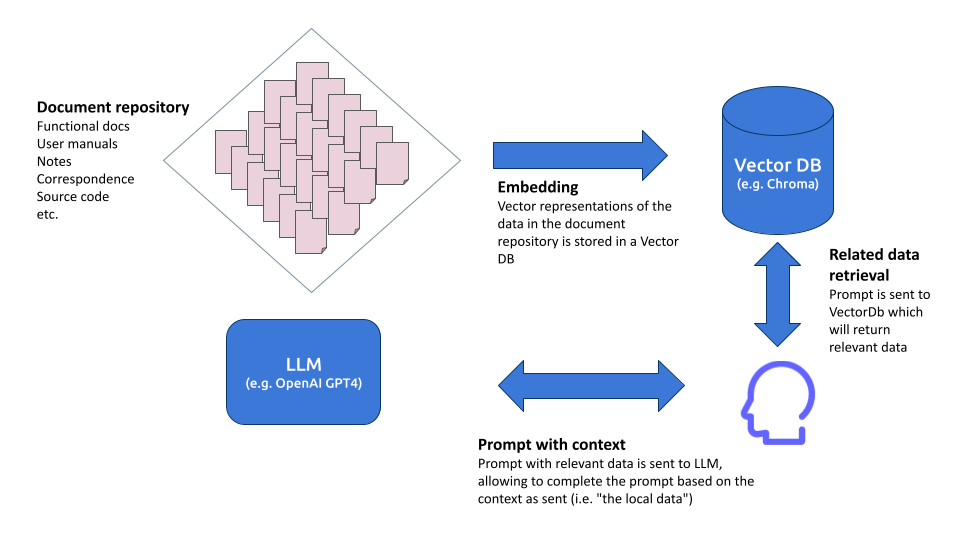
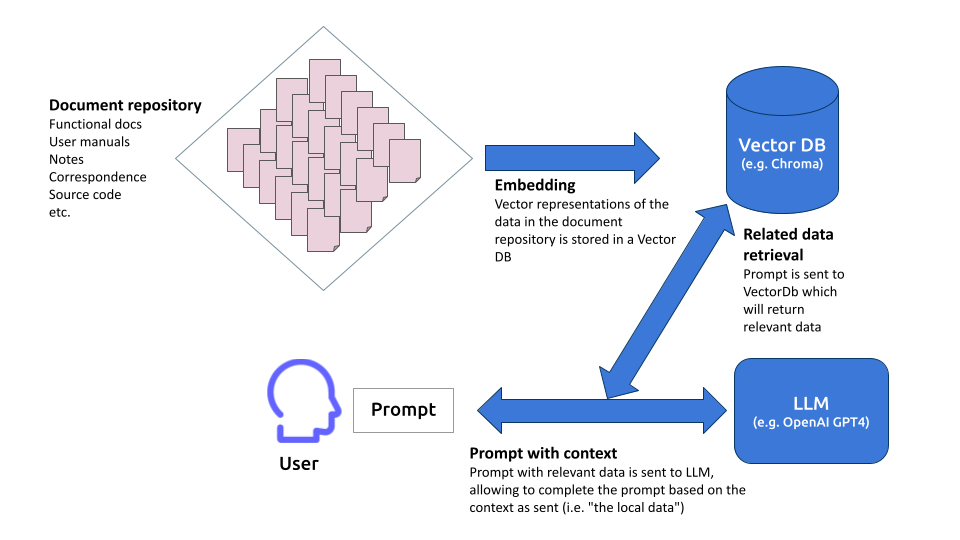
Added shell/repl

diff --git a/corpusaige/repl.py b/corpusaige/repl.py
@@ -1,0 +1,96 @@
+#!/usr/bin/env python3
+# -*- coding: utf-8 -*-
+"""
+Corpusaige is a Python tool (and utility library) enabling AI-powered systems analysis 
+through deep exploration and understanding of comprehensive document sets and source code.
+@copyright: Copyright © 2023 Iwan van der Kleijn
+@license: MIT
+"""
+
+# Import necessary modules
+from prompt_toolkit import PromptSession
+from prompt_toolkit.document import Document
+from prompt_toolkit.patch_stdout import patch_stdout
+from prompt_toolkit.lexers import PygmentsLexer
+from pygments.lexers import PythonLexer
+
+class ChatRepl:
+    def __init__(self):
+        self.session = PromptSession()
+        self.commands = self.get_commands()
+
+    def run(self):
+        print("Welcome to the Corpusaige shell. Type \\help or \\? to list commands.\n")
+        while True:
+            try:
+                with patch_stdout():
+                    user_input = self.get_multiline_input()
+
+                if user_input.startswith('\\'):
+                    self.handle_command(user_input)
+                else:
+                    self.send_chat(user_input)
+
+            except KeyboardInterrupt:
+                # Handle Ctrl+C gracefully
+                print("KeyboardInterrupt. Use \\exit to quit the shell.")
+
+            except EOFError:
+                # Handle Ctrl+D gracefully
+                print("Exiting the shell...")
+                break
+
+    def get_commands(self):
+        commands = {}
+        for name in dir(self):
+            if name.startswith("do_"):
+                command = name[3:]
+                commands[command] = getattr(self, name)
+        return commands
+
+    def get_multiline_input(self):
+        lines = []
+        while True:
+            line = self.session.prompt('> ', lexer=PygmentsLexer(PythonLexer), 
+                                       multiline=True, is_password=False,
+                                       vi_mode=False, enable_history_search=True)
+            lines.append(line)
+            
+            # Break the loop if the input is complete
+            if not line.endswith('\\'):
+                break
+
+        return '\n'.join(lines)
+
+    def send_chat(self, message):
+        print(f"Sending chat message: {message}")
+
+    def handle_command(self, command):
+        command = command[1:].strip()
+
+        if command == 'help' or command == '?':
+            self.show_help()
+        elif command == 'exit':
+            self.do_exit()
+        else:
+            print("Unknown command. Type \\help or \\? for assistance.")
+
+    def show_help(self):
+       
+        print("Available commands:")
+        for command in self.commands:
+            print(f"\\{command:<10} - {self.commands[command].__doc__}")
+
+    def do_help(self):
+        """Show this help message."""
+        self.show_help()
+
+
+    def do_exit(self):
+        """Exit the shell."""	
+        raise EOFError()
+
+if __name__ == '__main__':
+    ChatRepl().run()
+
+  

diff --git a/corpusaige/cli.py b/corpusaige/cli.py
@@ -10,8 +10,7 @@ through deep exploration and understanding of comprehensive document sets and so
 # Import necessary modules
 import argparse
 import sys
-from .shell import CorpusaigeShell
-
+from .repl import ChatRepl
 
 
 def new_corpus(name):
@@ -35,9 +34,7 @@ def shell():
     Displays the Corpusaige shell help message.
     """
     # Implementation goes here
-    repl = CorpusaigeShell()
-    repl.cmdloop()
-
+    ChatRepl().run()
 
 def main():
     parser = argparse.ArgumentParser(
